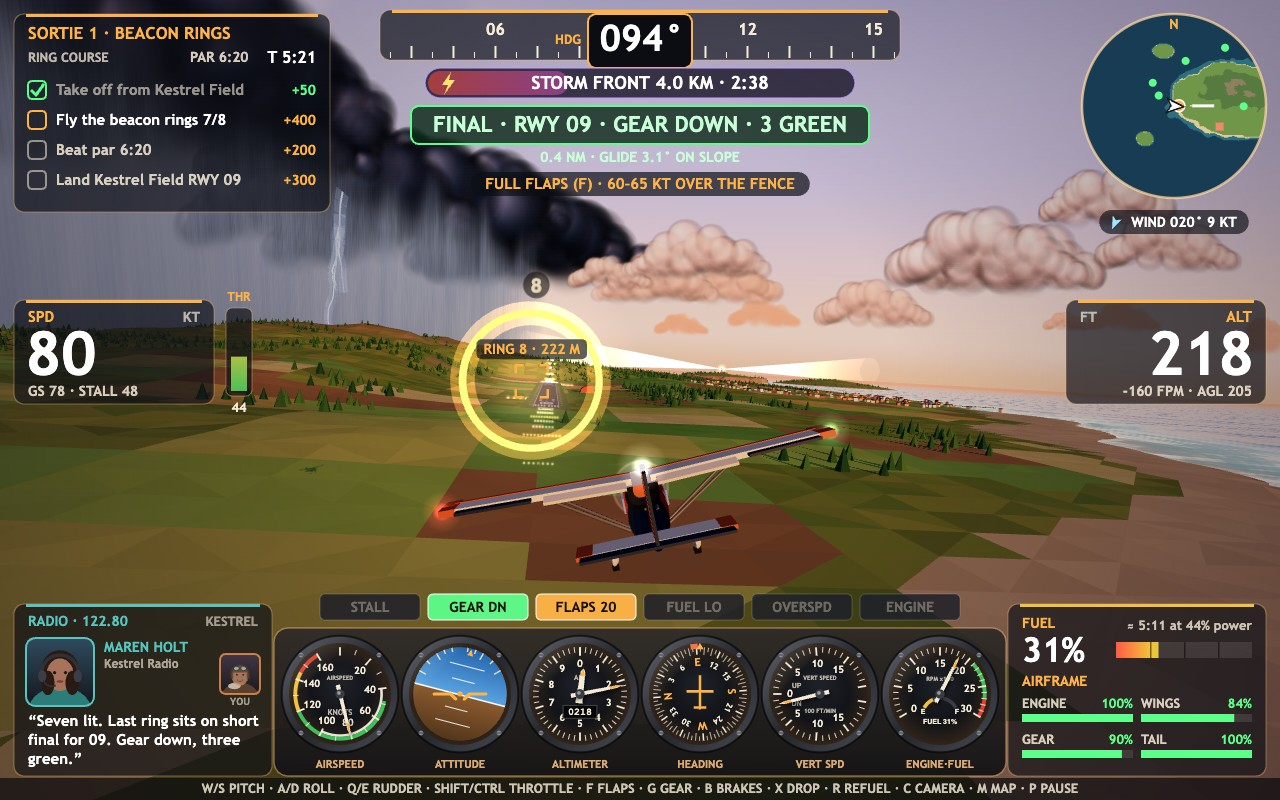
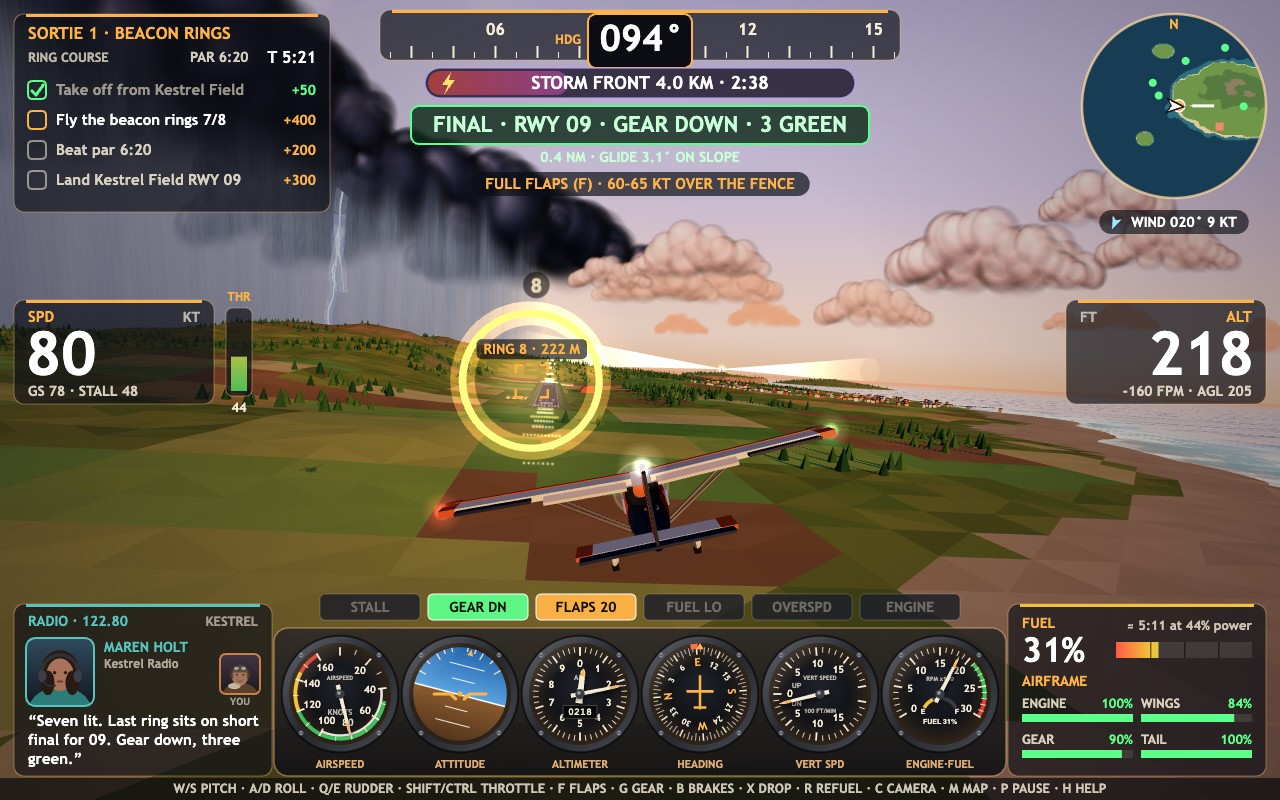
H opens a how-to-fly card that pauses the sortie

Changed region(s): [[0.125, 0.9688, 0.875, 1.0]]

diff --git a/game/src/hud.js b/game/src/hud.js
@@ -475,7 +475,7 @@ function windReadout(g, cx, y, wind) {
 function controlsStrip(g, W, H) {
   g.fillStyle = 'rgba(8,9,14,0.7)';
   g.fillRect(0, H - 22, W, 22);
-  text(g, 'W/S PITCH · A/D ROLL · Q/E RUDDER · SHIFT/CTRL THROTTLE · F FLAPS · G GEAR · B BRAKES · X DROP · R REFUEL · C CAMERA · M MAP · P PAUSE', W / 2, H - 11, 13, 'rgba(246,236,216,0.82)', 'center', 700);
+  text(g, 'W/S PITCH · A/D ROLL · Q/E RUDDER · SHIFT/CTRL THROTTLE · F FLAPS · G GEAR · B BRAKES · X DROP · R REFUEL · C CAMERA · M MAP · P PAUSE · H HELP', W / 2, H - 11, 13, 'rgba(246,236,216,0.82)', 'center', 700);
 }
 
 function banner(g, W, frame) {
@@ -491,6 +491,32 @@ function banner(g, W, frame) {
   g.lineWidth = 2;
   g.stroke();
   text(g, b.text, W / 2, 262, 30, b.colour, 'center', 800);
+}
+
+/** The H card: how to fly the KC-9, in six lines, over the paused-looking frame. */
+export function drawFlyingNotes(g, W, H) {
+  const w = 760;
+  const h = 380;
+  const x = (W - w) / 2;
+  const y = (H - h) / 2 - 20;
+  g.fillStyle = 'rgba(5,6,10,0.55)';
+  g.fillRect(0, 0, W, H);
+  panel(g, x, y, w, h);
+  text(g, 'HOW TO FLY THE KC-9', x + 28, y + 34, 22, AMBER, 'left', 900);
+  const notes = [
+    ['TAKE OFF', 'Shift to full power, steer the centreline with Q/E, ease back on S at 55 kt.'],
+    ['TURN', 'Bank with A/D; she holds her climb or descent. Steep turns need speed.'],
+    ['STALL', 'Below ~49 kt clean (~44 kt full flaps) the wing quits. Nose down (W), power up.'],
+    ['LAND', 'Gear down (G), full flaps (F), 60–65 kt, ride the PAPI: two red, two white.'],
+    ['FUEL & DAMAGE', 'Throttle burns fuel steeply. Hold R stopped on a strip to refuel and repair.'],
+    ['STORM', 'Watch the front’s clock. When it reaches the coast, get down on a strip.'],
+  ];
+  notes.forEach(([head, body], i) => {
+    const ry = y + 78 + i * 44;
+    text(g, head, x + 28, ry, 15, '#ffffff', 'left', 900);
+    text(g, body, x + 170, ry, 15, 'rgba(246,236,216,0.9)', 'left', 600);
+  });
+  text(g, 'H TO CLOSE', x + w / 2, y + h - 22, 14, AMBER, 'center', 800);
 }
 
 /** The next thing the pilot is flying to, for the tape bug and the screen marker. */

diff --git a/game/src/main.js b/game/src/main.js
@@ -9,7 +9,7 @@ import { approachInfo, createSession, dropCrate, readouts, stepSession, toggleFl
 import { createWorldScene } from './world-scene.js';
 import { shakeCamera } from './chase-camera.js';
 import { drawCockpitPanel } from './cockpit-panel.js';
-import { drawFlightHud, text } from './hud.js';
+import { drawFlightHud, drawFlyingNotes, text } from './hud.js';
 import { drawMissionBoard, driftOnBoard, poseForBoard } from './mission-board.js';
 import { drawResultCard } from './result-card.js';
 import { createEngineAudio } from './engine-audio.js';
@@ -178,6 +178,10 @@ function handleActions(actions) {
       game.screen = game.screen === 'paused' ? 'fly' : 'paused';
       continue;
     }
+    if (action === 'help') {
+      game.screen = game.screen === 'help' ? 'fly' : 'help';
+      continue;
+    }
     if (game.screen !== 'fly') {
       if (action === 'confirm') game.screen = 'fly';
       if (action === 'retry') startSortie(game.selected);
@@ -247,8 +251,9 @@ function drawOverlay() {
     g.fillStyle = 'rgba(5,6,10,0.6)';
     g.fillRect(0, 0, W, H);
     text(g, 'PAUSED', W / 2, H / 2 - 20, 56, '#fff4e0', 'center', 900);
-    text(g, 'P / ESC FLY ON · T RESTART THE SORTIE · BACKSPACE MISSION BOARD', W / 2, H / 2 + 30, 16, '#ffb347', 'center', 800);
+    text(g, 'P / ESC FLY ON · T RESTART THE SORTIE · BACKSPACE MISSION BOARD · H HOW TO FLY', W / 2, H / 2 + 30, 16, '#ffb347', 'center', 800);
   }
+  if (game.screen === 'help') drawFlyingNotes(g, W, H);
 }
 
 function runGame() {
@@ -313,7 +318,7 @@ function runGame() {
   });
   // Ctrl is the throttle-down key, and Ctrl+W would close the tab mid-sortie: ask first.
   window.addEventListener('beforeunload', (event) => {
-    if (game.screen === 'fly' || game.screen === 'paused') {
+    if (game.screen === 'fly' || game.screen === 'paused' || game.screen === 'help') {
       event.preventDefault();
       event.returnValue = '';
     }

diff --git a/game/src/input.js b/game/src/input.js
@@ -7,7 +7,7 @@ export const ACTIONS = ['flaps', 'gear', 'camera', 'map', 'pause', 'drop', 'conf
 const KEY_ACTIONS = {
   KeyF: 'flaps', KeyG: 'gear', KeyC: 'camera', KeyM: 'map', KeyP: 'pause', Escape: 'back', KeyX: 'drop',
   Enter: 'confirm', Space: 'confirm', KeyT: 'retry', Digit1: 'pick1', Digit2: 'pick2', Digit3: 'pick3', Digit4: 'pick4', KeyI: 'invert', KeyN: 'audio',
-  ArrowLeft: 'left', ArrowRight: 'right', Backspace: 'board',
+  ArrowLeft: 'left', ArrowRight: 'right', Backspace: 'board', KeyH: 'help',
 };
 
 export function createInput(target = window) {

diff --git a/README.md b/README.md
@@ -42,6 +42,7 @@ Pick a sortie on the mission board with **1–4** (or **← / →**) and press *
 | C | Chase view / cockpit view |
 | M | Full map |
 | P / Esc | Pause (Backspace while paused returns to the mission board) |
+| H | How-to-fly card (pauses the sortie) |
 | T | Fly the sortie again |
 | Hold left mouse | Steer with the mouse |
 | N | Mute |
